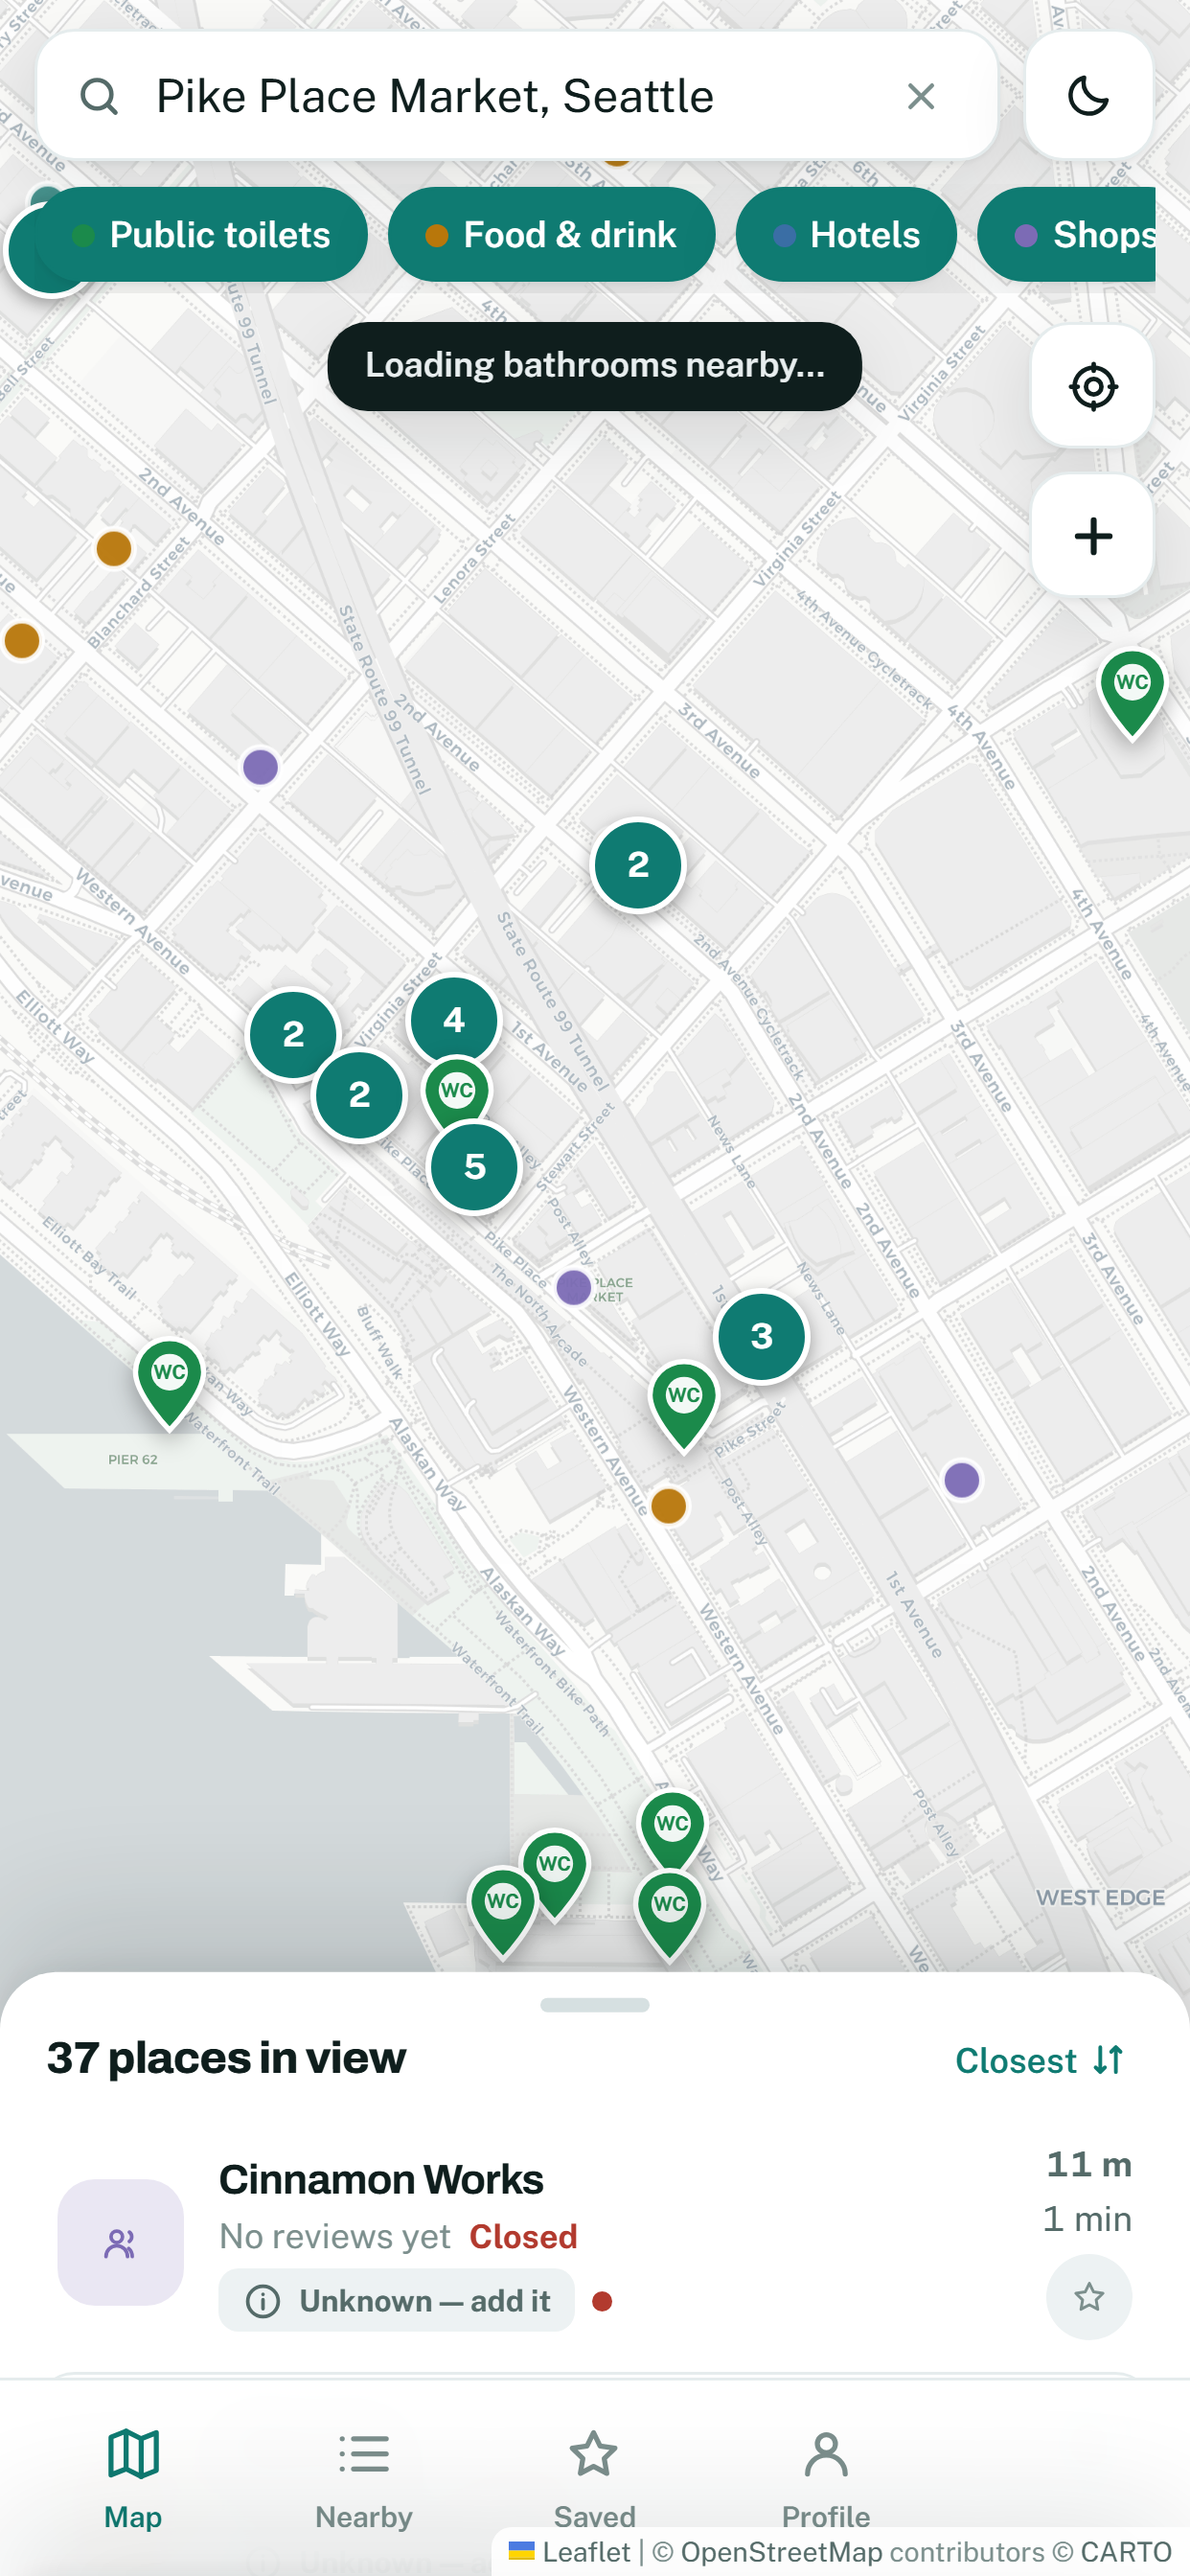
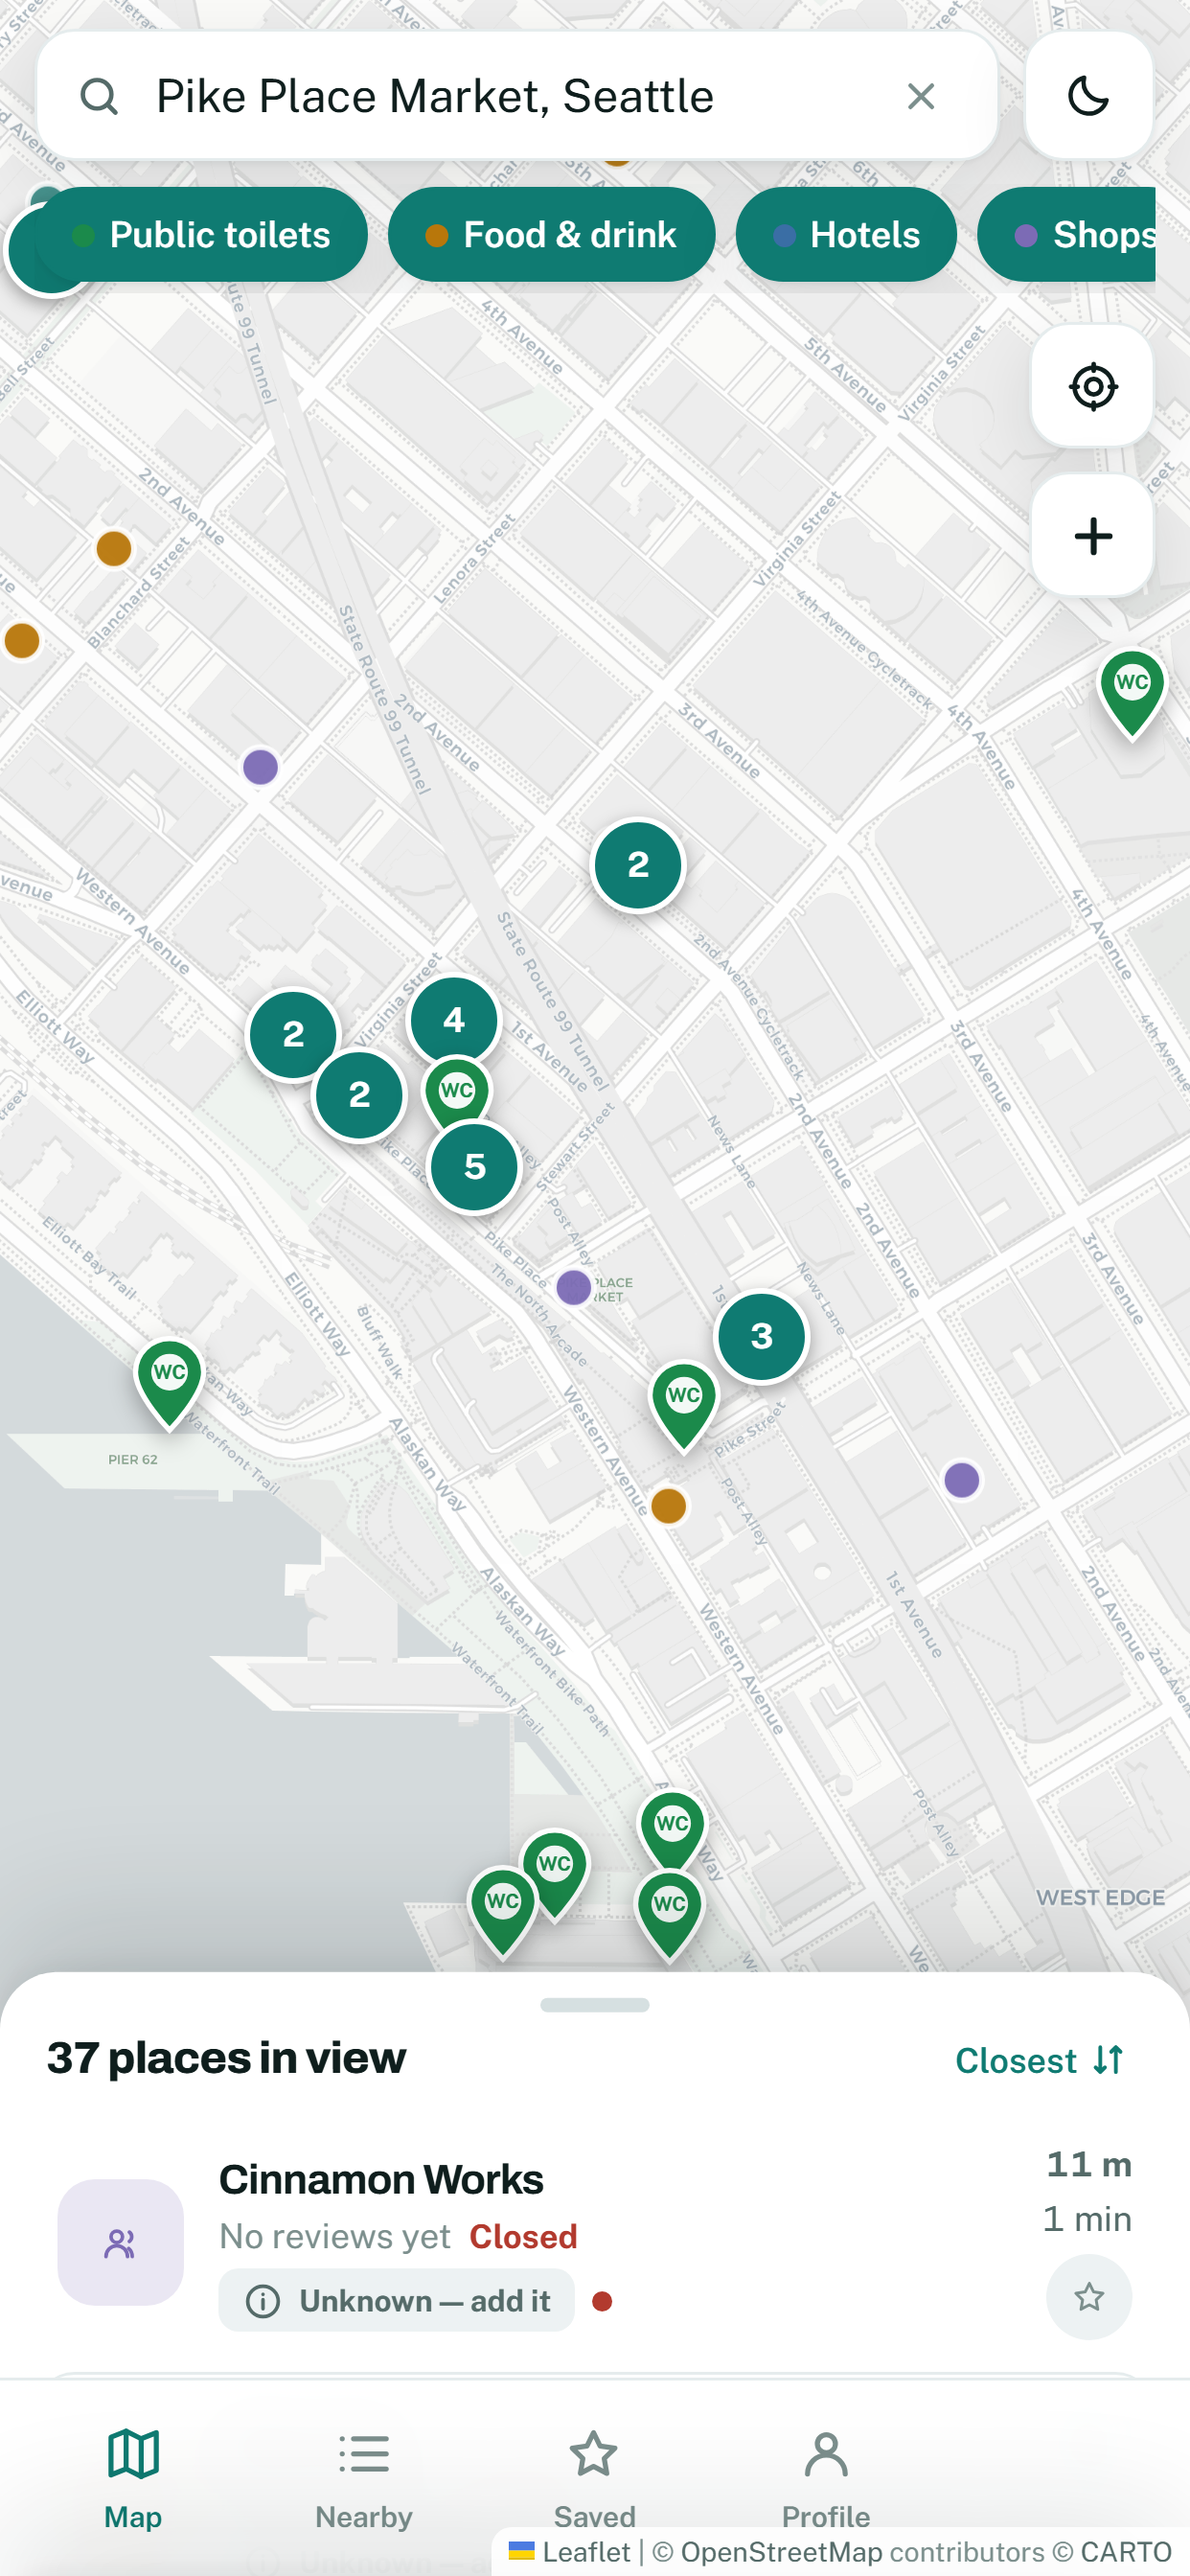
Ask for location on open and go straight there
Opening the app put three actions between launch and seeing anything
useful: open on the world view, find the crosshair, tap it, then approve
the permission. The app is about what is around you right now, so it
asks immediately and flies to you when the fix lands.

It cannot become a dialog on every launch. Browsers remember a denial
and will not re-prompt, and iOS asks once per install. Where the
Permissions API exists we check first and stay silent when the answer is
already no, so someone who declined is not handed an error toast they
did not ask for every time they open the app.

The map also remembers where it was. A returning user should not watch
the globe spin in from zoom 2 while the fix arrives — and if location is
refused outright, they still land where they were last instead of in the
middle of the Atlantic.

First fix now settles at zoom 16 rather than 17. At 17 you see about one
street; 16 is the handful of places actually worth walking to.

Also: the screenshot tool was hiding the wrong element. "Loading
bathrooms nearby..." is the #status pill, not a toast, so hiding the
toast container left it sitting across the middle of every shot —
including the three already uploaded to App Store Connect. Both are
hidden now and all nine are regenerated.

Changed region(s): [[0.2754, 0.125, 0.7343, 0.1875]]

diff --git a/app/app.js b/app/app.js
@@ -144,17 +144,36 @@ const TILE_LIGHT = 'https://basemaps.cartocdn.com/light_all/{z}/{x}/{y}{r}.png';
 const TILE_DARK  = 'https://basemaps.cartocdn.com/dark_all/{z}/{x}/{y}{r}.png';
 let map, tiles, markerLayer, hostRings, meMarker;
 
+/* Where the map was when the app was last closed. A returning user should not
+   have to watch the globe spin in from zoom 2 while the GPS fix lands. */
+function lastView(){
+  try {
+    const v = JSON.parse(localStorage.getItem('bf.lastview') || 'null');
+    if (v && Number.isFinite(v.lat) && Number.isFinite(v.lng) && Number.isFinite(v.z)) return v;
+  } catch(e){}
+  return null;
+}
+function rememberView(){
+  if (!map) return;
+  try {
+    const c = map.getCenter();
+    localStorage.setItem('bf.lastview',
+      JSON.stringify({lat:+c.lat.toFixed(5), lng:+c.lng.toFixed(5), z:map.getZoom()}));
+  } catch(e){}
+}
+
 function initMap(){
+  const last = lastView();
   map = L.map('map', {zoomControl:false, worldCopyJump:true, minZoom:2, maxZoom:19,
                       preferCanvas:false, attributionControl:true})
-        .setView([20, 0], 2);
+        .setView(last ? [last.lat, last.lng] : [20, 0], last ? last.z : 2);
   tiles = L.tileLayer(document.documentElement.getAttribute('data-theme') === 'dark' ? TILE_DARK : TILE_LIGHT, {
     maxZoom:19, detectRetina:true,
     attribution:'&copy; <a href="https://www.openstreetmap.org/copyright">OpenStreetMap</a> contributors &copy; <a href="https://carto.com/attributions">CARTO</a>'
   }).addTo(map);
   markerLayer = L.layerGroup().addTo(map);
   hostRings = L.layerGroup().addTo(map);
-  map.on('moveend', () => { state.center = map.getCenter(); scheduleLoad(); renderList(); });
+  map.on('moveend', () => { state.center = map.getCenter(); rememberView(); scheduleLoad(); renderList(); });
   map.on('zoomend', () => { scheduleLoad(); renderMarkers(); });
   state.center = map.getCenter();
 }
@@ -2130,7 +2149,7 @@ function locate(){
   watchId = navigator.geolocation.watchPosition(
     pos => {
       state.me = {lat:pos.coords.latitude, lng:pos.coords.longitude, acc:pos.coords.accuracy};
-      if (first){ map.setView([state.me.lat, state.me.lng], 17); first = false;
+      if (first){ map.setView([state.me.lat, state.me.lng], 16); first = false;
                   status(`Found you — accurate to about ${Math.round(pos.coords.accuracy)} m`, 3200); }
       if (accuracyRing) map.removeLayer(accuracyRing);
       if (pos.coords.accuracy && pos.coords.accuracy > 25)
@@ -2147,6 +2166,28 @@ function locate(){
     },
     {enableHighAccuracy:true, timeout:12000, maximumAge:15000}
   );
+}
+
+/* Ask for location the moment the app opens, and go straight there.
+
+   Opening on the world view and waiting for a tap on the crosshair put three
+   actions between launch and seeing anything useful: open, tap, approve. The
+   app is about what is around you right now, so it asks immediately.
+
+   This cannot become a dialog on every launch. A browser remembers a denial
+   and will not re-prompt, and on iOS the system asks once per install. Where
+   the Permissions API exists we check first and stay silent if the answer is
+   already no, so a user who declined is not handed an error toast they did
+   not ask for on every visit. */
+async function autoLocate(){
+  if (!navigator.geolocation || !window.isSecureContext) return;
+  try {
+    if (navigator.permissions && navigator.permissions.query){
+      const p = await navigator.permissions.query({name:'geolocation'});
+      if (p.state === 'denied') return;
+    }
+  } catch(e){ /* Permissions API is optional — fall through and just ask */ }
+  locate();
 }
 
 /* ---------- chrome: panels, modal, toast, sheet ---------- */
@@ -2283,6 +2324,9 @@ function boot(){
   el('btn-theme').addEventListener('click', () =>
     applyTheme(document.documentElement.getAttribute('data-theme') === 'dark' ? 'light' : 'dark'));
   el('btn-locate').addEventListener('click', locate);
+  /* Do this after the listeners exist, so the status and crosshair states
+     the fix drives are already wired up when it lands. */
+  autoLocate();
   el('btn-add').addEventListener('click', () => startDropMode('add', pt => openAddForm(pt)));
   el('drop-cancel').addEventListener('click', endDropMode);
   el('drop-confirm').addEventListener('click', () => {

diff --git a/tools/make-screenshots.js b/tools/make-screenshots.js
@@ -212,7 +212,11 @@ async function main(){
             if (!document.getElementById('shotcss')){
               const st = document.createElement('style');
               st.id = 'shotcss';
-              st.textContent = '#toasts{display:none !important}';
+              /* #status is the dark pill that says "Loading bathrooms
+                 nearby..." — it is NOT a toast, which is why hiding the
+                 toast container alone left it sitting across the middle of
+                 every shot. Both go. */
+              st.textContent = '#toasts,#status{display:none !important}';
               document.head.appendChild(st);
               n++;
             }
